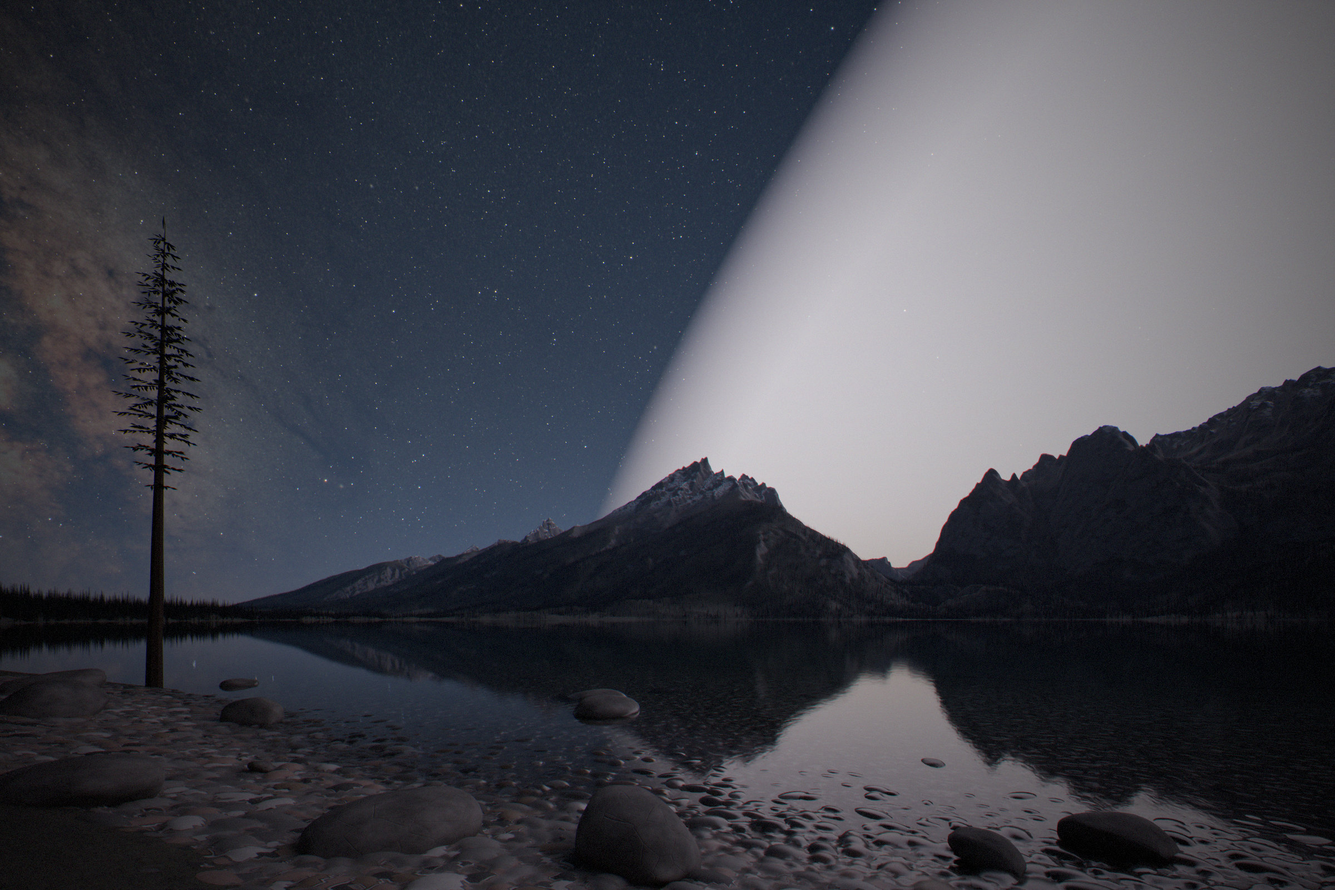
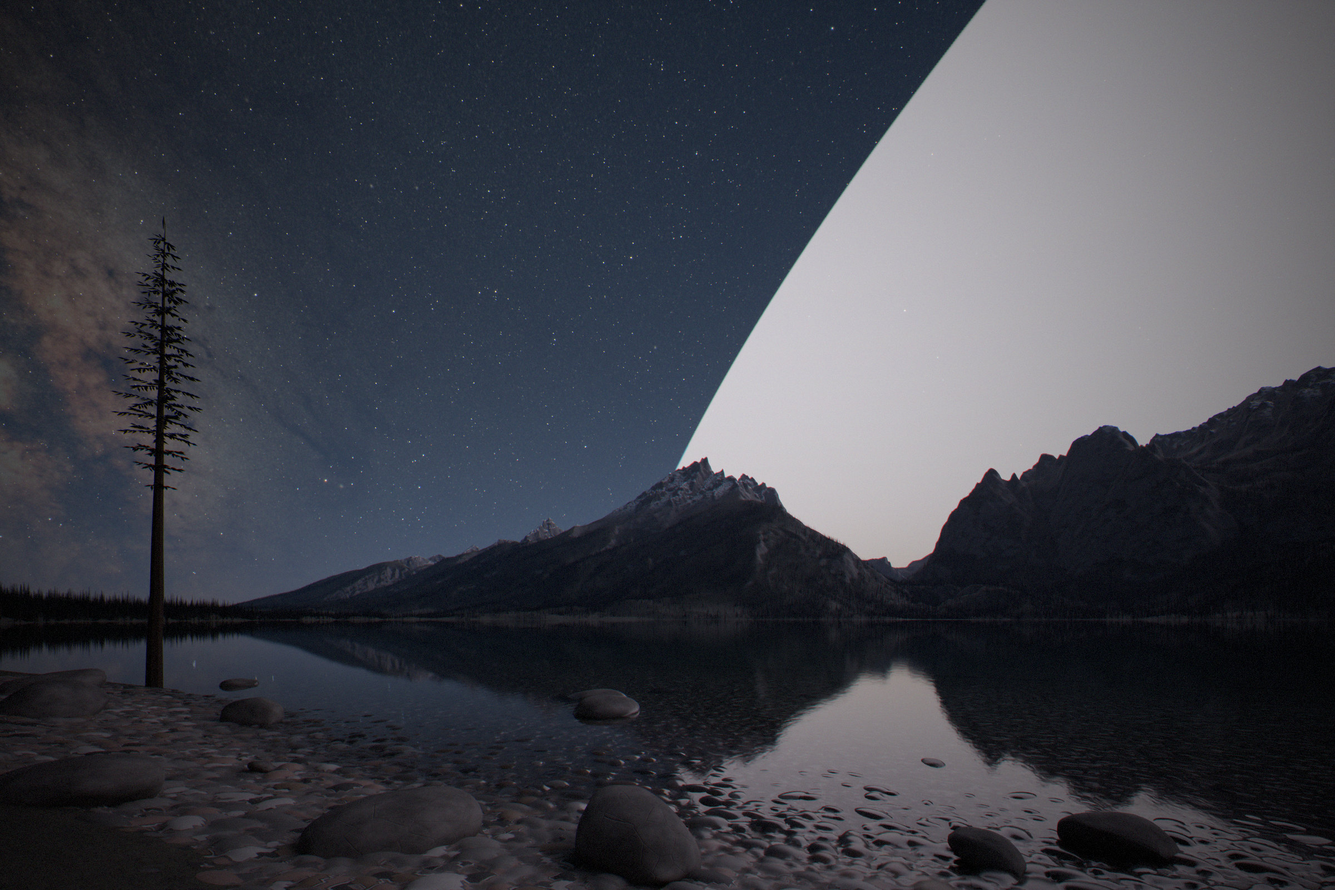
Jenny Lake at one part in ten thousand, thin shell: a sharp arc 70 deg from the Sun
Claude-Session: https://claude.ai/code/session_01SbDrhYF14UDXonL1ALY6on

Changed region(s): [[0.4375, 0.0, 0.75, 0.5938], [0.4688, 0.8125, 0.5312, 0.9062]]

diff --git a/index.html b/index.html
@@ -349,7 +349,7 @@ section.stage { border-top: 1px solid var(--rule); }
     <div class="col"><div class="kicker"><span class="stage-when" data-f="1e-4"></span></div><h2>The night sky lightens</h2><p class="dek">One part in ten thousand. Round the Sun's side of the sky the night is a hundred times brighter than it used to be.</p></div>
     <figure class="wide">
       <div class="plate"><img src="renders/stage-night-1e-4.jpg" alt="The lake at night: a pale glowing disc fills the right of the sky above the range, its curved edge sharp against the stars to the left" width="2400" height="1600" loading="lazy"></div>
-      <figcaption class="col"><b>Jenny Lake, one part in ten thousand.</b> Round the set Sun the sky now glows a hundred times brighter than a dark sky, and the sphere's edge is plain to see: an arc 76° from the Sun, beyond which the stars are as they are tonight. Exposed for the night, the disc prints almost white. To the eye it would look like the sky over a city suburb, with only the brighter stars showing through. The lake reflects it, and the shore is lit seven times more than tonight.<span class="how">Same moment as tonight's frame, exposed 0.9 stops less, metered for the night scene. The glow is 0.018 cd/m² where the line of sight crosses the whole sphere, and fades toward the limb. Ground illuminance 0.0088 lux, against 0.0012 tonight and about 0.25 under a full Moon.</span></figcaption>
+      <figcaption class="col"><b>Jenny Lake, one part in ten thousand.</b> Round the set Sun the sky now glows a hundred times brighter than a dark sky, and the sphere's edge is plain to see: a sharp arc 70° from the Sun, beyond which the stars are as they are tonight. Exposed for the night, the disc prints almost white. To the eye it would look like the sky over a city suburb, with only the brighter stars showing through. The lake reflects it, and the shore is lit seven times more than tonight.<span class="how">Same moment as tonight's frame, exposed 0.9 stops less, metered for the night scene. The glow is 0.018 cd/m², even out to the shell's limb, 69.9° from the Sun on this date; the shell is so thin that the edge is sharp. Ground illuminance 0.0087 lux, against 0.0012 tonight and about 0.25 under a full Moon.</span></figcaption>
     </figure>
     <figure class="wide">
       <div class="plate"><img src="renders/stage-leo-1e-4.jpg" alt="From orbit before dawn: Earth's night side and airglow, a faint glow filling the sky above" width="2400" height="1600" loading="lazy"></div>
